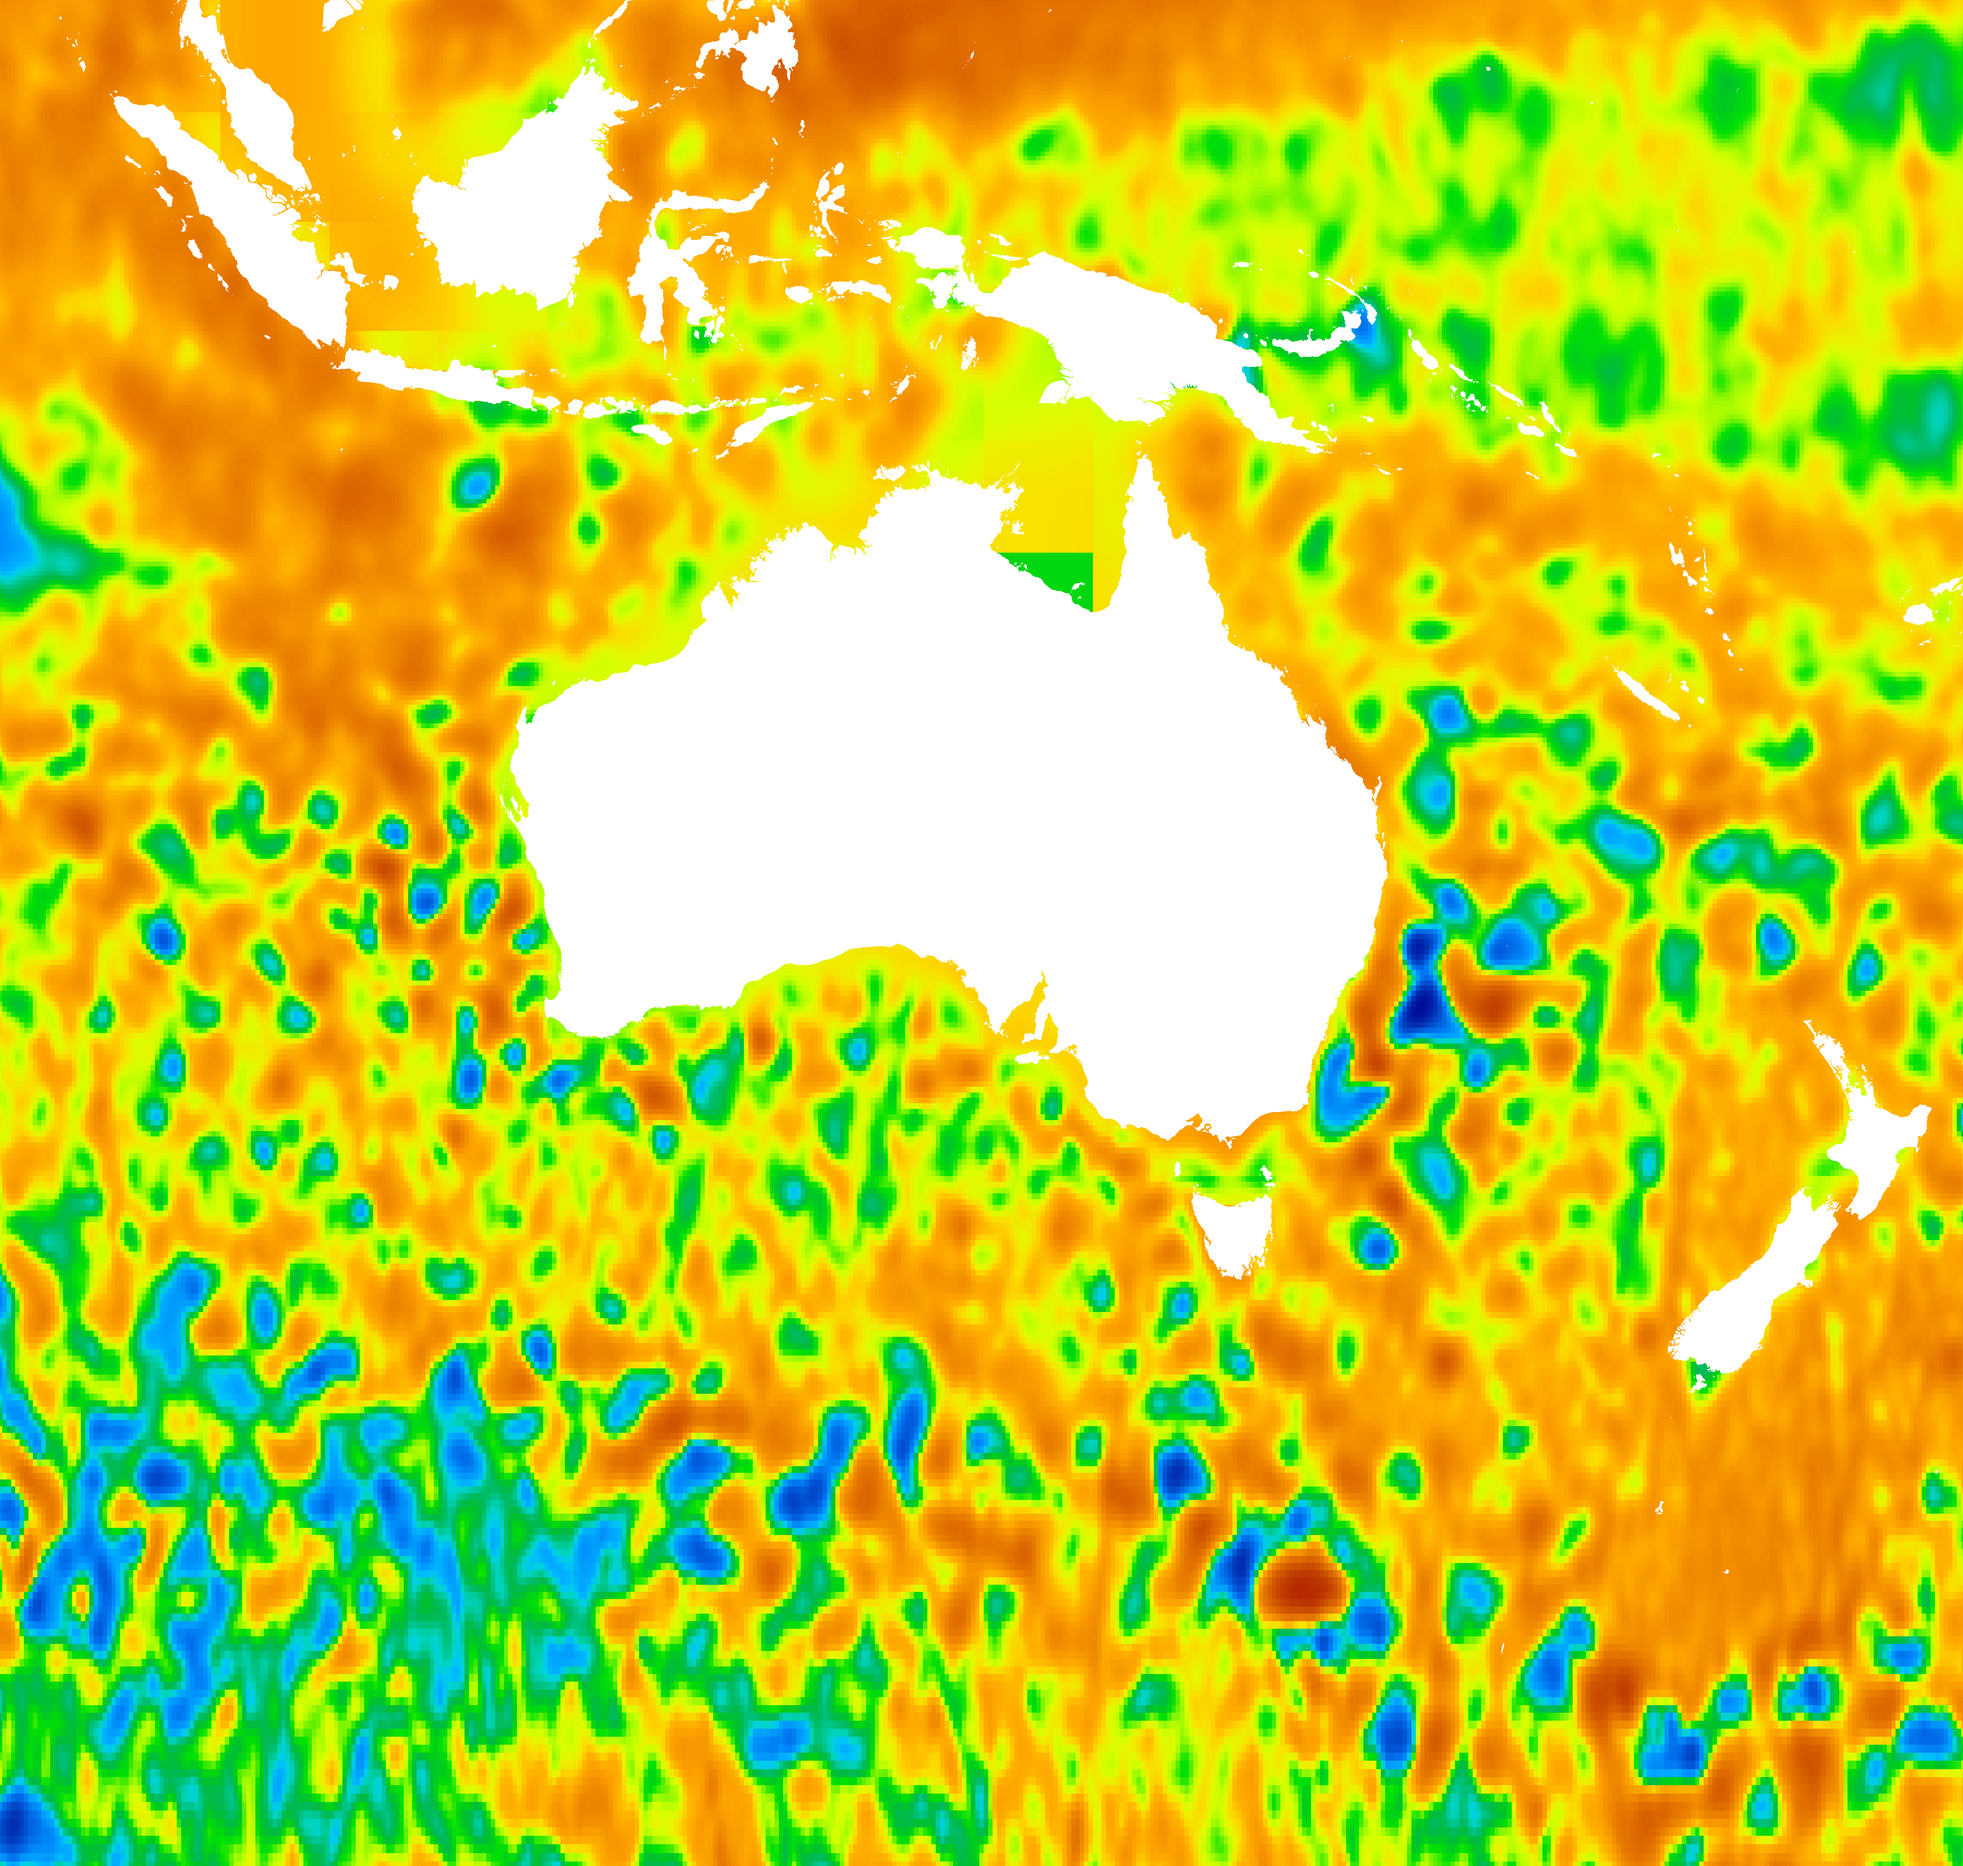
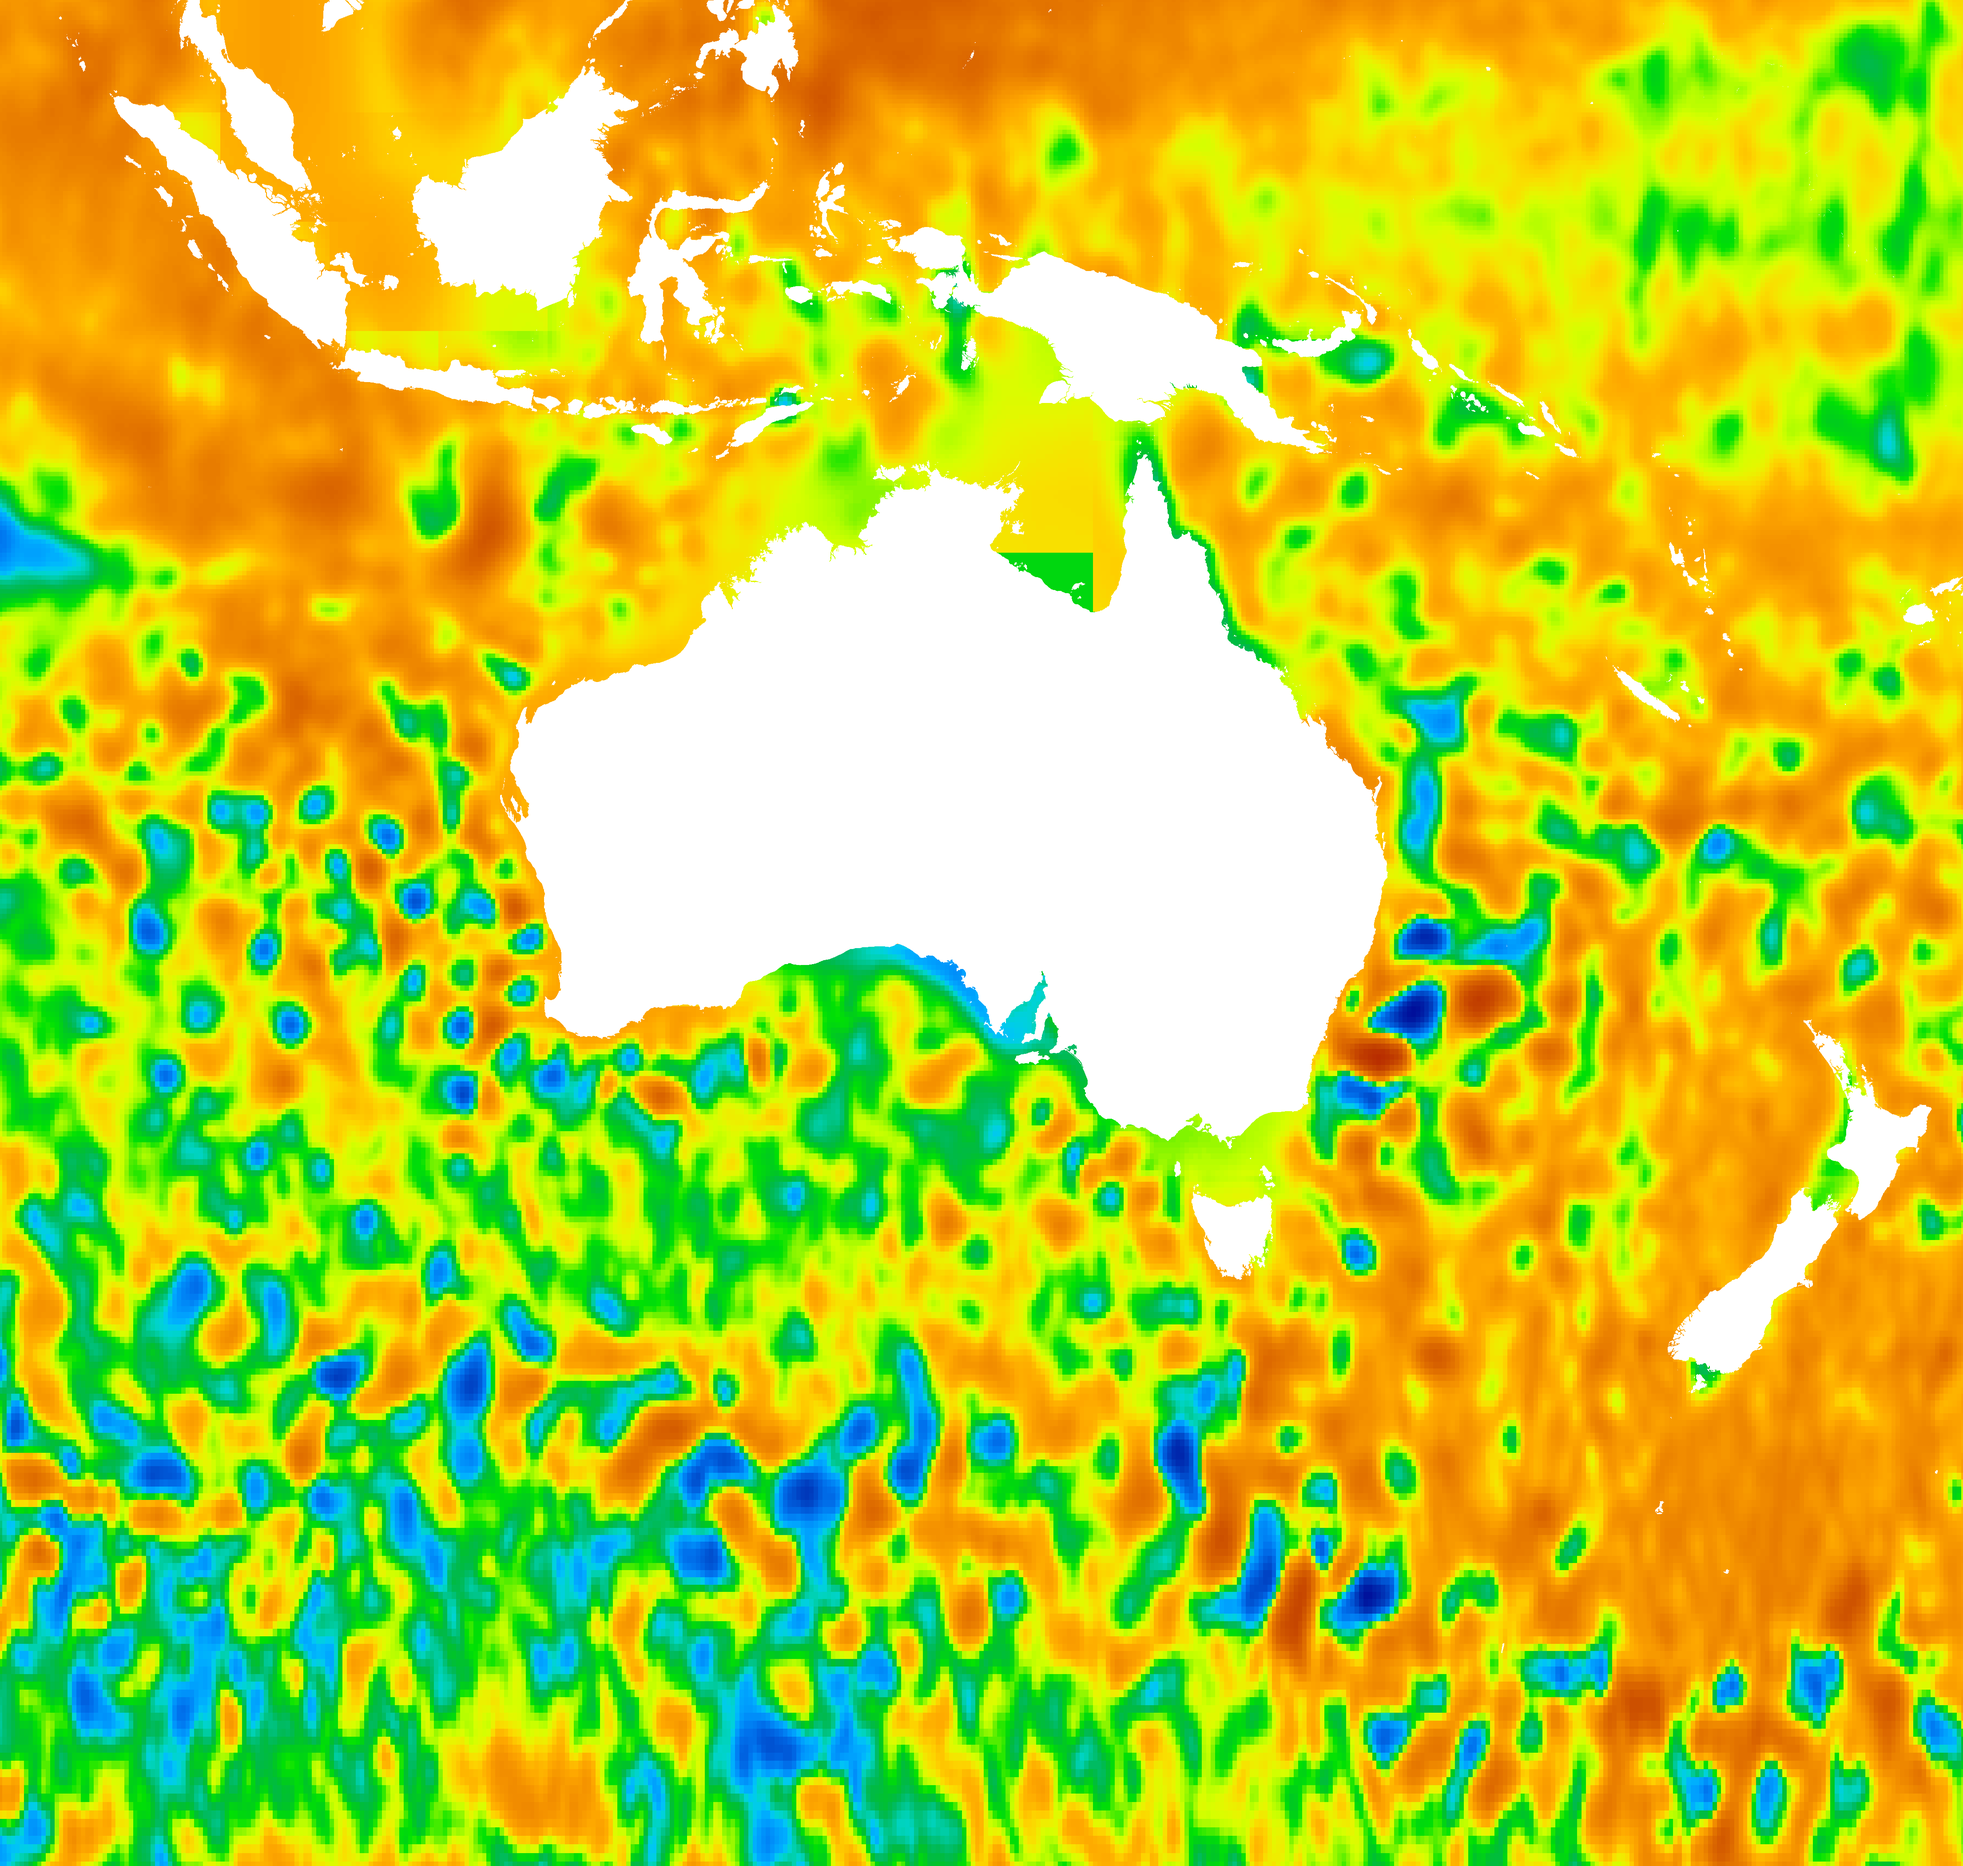
feature: refactor and add comment

diff --git a/src/components/ColorScaleBar/utils.ts b/src/components/ColorScaleBar/utils.ts
@@ -411,3 +411,101 @@ export function applyTickGuard(
     return true;
   });
 }
+
+/**
+ * Calculates the normalized position of a value within a logarithmic color scale.
+ *
+ * This function maps a data value to a position in the [0, 1] range for color interpolation
+ * using logarithmic scaling. All values must be positive as logarithms of negative numbers
+ * are undefined.
+ *
+ * The mapping preserves logarithmic relationships, meaning that values with the same
+ * logarithmic ratio will have the same visual color distance. For example, the color
+ * difference between 1 and 10 will be the same as between 10 and 100.
+ *
+ * @param value - The data value to normalize (must be > 0)
+ * @param min - The minimum value of the data range (must be > 0)
+ * @param max - The maximum value of the data range (must be > 0 and > min)
+ * @returns A value between 0 and 1 representing the position in the color scale
+ *
+ * @example
+ * // For a range from 1 to 1000
+ * getLogColorPosition(1, 1, 1000);    // Returns 0.0 (start of color scale)
+ * getLogColorPosition(10, 1, 1000);   // Returns 0.333... (1/3 through color scale)
+ * getLogColorPosition(100, 1, 1000);  // Returns 0.666... (2/3 through color scale)
+ * getLogColorPosition(1000, 1, 1000); // Returns 1.0 (end of color scale)
+ *
+ * @example
+ * // Using with color interpolation
+ * const colorPos = getLogColorPosition(50, 1, 1000);
+ * const color = interpolateColor(colorPos, colorPalette);
+ */
+export function getLogColorPosition(value: number, min: number, max: number): number {
+  return (Math.log10(value) - Math.log10(min)) / (Math.log10(max) - Math.log10(min));
+}
+
+/**
+ * Calculates the normalized position of a value within a symmetric logarithmic (symlog) color scale.
+ *
+ * This function maps a data value to a position in the [0, 1] range for color interpolation
+ * using symmetric logarithmic scaling. Unlike pure logarithmic scaling, symlog can handle
+ * negative values and provides linear scaling near zero for better visualization of small values.
+ *
+ * The symlog transformation consists of three regions:
+ * - Linear region: |value| ≤ threshold - scaled linearly to preserve small value differences
+ * - Positive log region: value > threshold - scaled logarithmically for large positive values
+ * - Negative log region: value < -threshold - scaled logarithmically for large negative values
+ *
+ * This normalization matches Python's matplotlib SymLogNorm behavior, ensuring consistent
+ * color mapping between different visualization tools.
+ *
+ * @param value - The data value to normalize (can be any real number)
+ * @param min - The minimum value of the data range
+ * @param max - The maximum value of the data range (must be > min)
+ * @param threshold - The threshold value defining the boundary between linear and logarithmic regions (must be > 0)
+ * @returns A value between 0 and 1 representing the position in the color scale
+ *
+ * @example
+ * // For a range from -100 to 100 with threshold 1
+ * getSymlogColorPosition(-100, -100, 100, 1);  // Returns 0.0 (start of color scale)
+ * getSymlogColorPosition(-1, -100, 100, 1);    // Returns ~0.25 (end of negative log region)
+ * getSymlogColorPosition(0, -100, 100, 1);     // Returns 0.5 (center of linear region)
+ * getSymlogColorPosition(1, -100, 100, 1);     // Returns ~0.75 (start of positive log region)
+ * getSymlogColorPosition(100, -100, 100, 1);   // Returns 1.0 (end of color scale)
+ *
+ * @example
+ * // Using with color interpolation for oceanographic data
+ * const colorPos = getSymlogColorPosition(seaLevelAnomaly, -1.2, 1.2, 0.1);
+ * const color = interpolateColor(colorPos, oceanColorPalette);
+ *
+ * @example
+ * // Comparing with linear scaling
+ * const linearPos = (value - min) / (max - min);        // Linear color mapping
+ * const symlogPos = getSymlogColorPosition(value, min, max, threshold); // Symlog color mapping
+ * // symlogPos will emphasize differences in large magnitude values more than linearPos
+ */
+export function getSymlogColorPosition(
+  value: number,
+  min: number,
+  max: number,
+  threshold: number,
+): number {
+  const normalizeSymlog = (val: number) => {
+    if (Math.abs(val) <= threshold) {
+      // linear region: normalize within [-threshold, threshold] to [-1, 1]
+      return val / threshold;
+    } else {
+      // logarithmic region
+      const sign = Math.sign(val);
+      const logVal = Math.log10(Math.abs(val) / threshold);
+      return sign * (1 + logVal);
+    }
+  };
+
+  const normalizedValue = normalizeSymlog(value);
+  const normalizedMin = normalizeSymlog(min);
+  const normalizedMax = normalizeSymlog(max);
+
+  // map to [0, 1] range for color interpolation
+  return (normalizedValue - normalizedMin) / (normalizedMax - normalizedMin);
+}

diff --git a/src/components/ColorScaleBar/SymLogColorScaleBar.tsx b/src/components/ColorScaleBar/SymLogColorScaleBar.tsx
@@ -5,6 +5,7 @@ import {
   generateSymlogTicks,
   getSymlogVisualPosition,
   interpolateColor,
+  getSymlogColorPosition,
 } from './utils';
 import anomalySeaLevelColorMap from '@/config/anomaly_sea_level_colormap.json';
 import { cn } from '@/utils';
@@ -35,21 +36,24 @@ export const SymLogColorScaleBar = ({
   intermediateTicks = [2, 5],
 }: SymLogColorScaleBarProps) => {
   const gradient = useMemo(() => {
-    const stops = [];
+    const values = Array.from({ length: numStops }, (_, i) => {
+      return min + (max - min) * (i / (numStops - 1));
+    });
 
-    for (let i = 0; i < numStops; i++) {
-      const value = min + (max - min) * (i / (numStops - 1));
-      const position = getSymlogVisualPosition(value, min, max, threshold, compressedRange);
+    const stops = values.map(value => {
+      // visual position
+      const visualPosition =
+        getSymlogVisualPosition(value, min, max, threshold, compressedRange) * 100;
 
-      // Map position to color palette (0 to 1 range)
-      const colorPosition = (value - min) / (max - min);
+      // color position matches Python's SymLogNorm
+      const colorPosition = getSymlogColorPosition(value, min, max, threshold);
       const color = interpolateColor(colorPosition, colors);
 
-      stops.push(`${color} ${(position * 100).toFixed(2)}%`);
-    }
+      return `${color} ${visualPosition.toFixed(2)}%`;
+    });
 
     return `linear-gradient(to right, ${stops.join(', ')})`;
-  }, [min, max, threshold, compressedRange, numStops, colors]);
+  }, [numStops, min, max, threshold, compressedRange, colors]);
 
   const tickPositions = useMemo(() => {
     const ticks = generateSymlogTicks(min, max, threshold, intermediateTicks);

diff --git a/src/components/ColorScaleBar/LogColorScaleBar.tsx b/src/components/ColorScaleBar/LogColorScaleBar.tsx
@@ -6,6 +6,7 @@ import {
   generateLogTicks,
   formatTickValue,
   applyTickGuard,
+  getLogColorPosition,
 } from './utils';
 
 type LogColorScaleBarProps = {
@@ -44,8 +45,8 @@ export const LogColorScaleBar = ({
       const visualPosition =
         getLogVisualPosition({ value: v, min, max, threshold, compressedRange }) * 100;
       // map color based on the logarithmic value position, not visual position, say it is 10 base, 1-10, 10-100, 100-1000. logPercent will be in (0 - 1/3), (1/3 - 2/3), (2/3 - 3/3)
-      const logPercent = (Math.log10(v) - Math.log10(min)) / (Math.log10(max) - Math.log10(min));
-      const color = interpolateColor(logPercent, colors);
+      const colorPosition = getLogColorPosition(v, min, max);
+      const color = interpolateColor(colorPosition, colors);
       // color is based on logarithmic value position, but position is from visualPosition, because we put all colors
       // less than threshold value within compressedRange to make it look good. like 0.01-0.1 will take large space without compressedRange, thredshold setup
       return `${color} ${visualPosition.toFixed(2)}%`;
